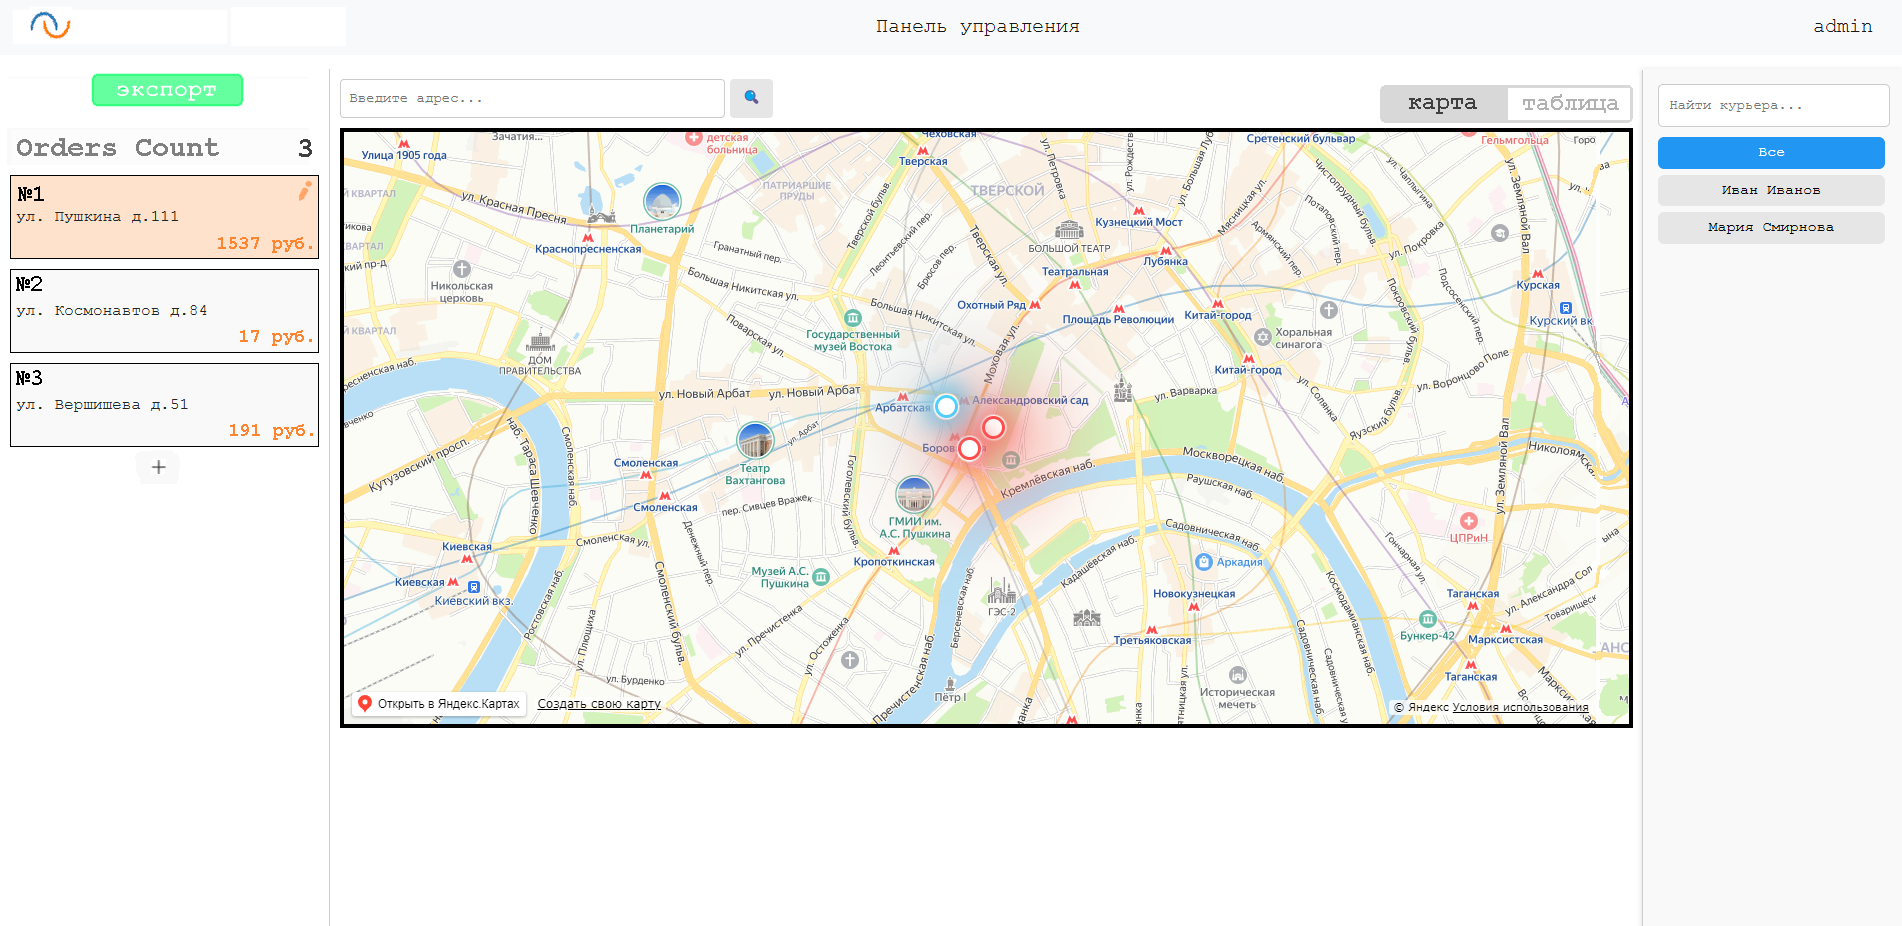
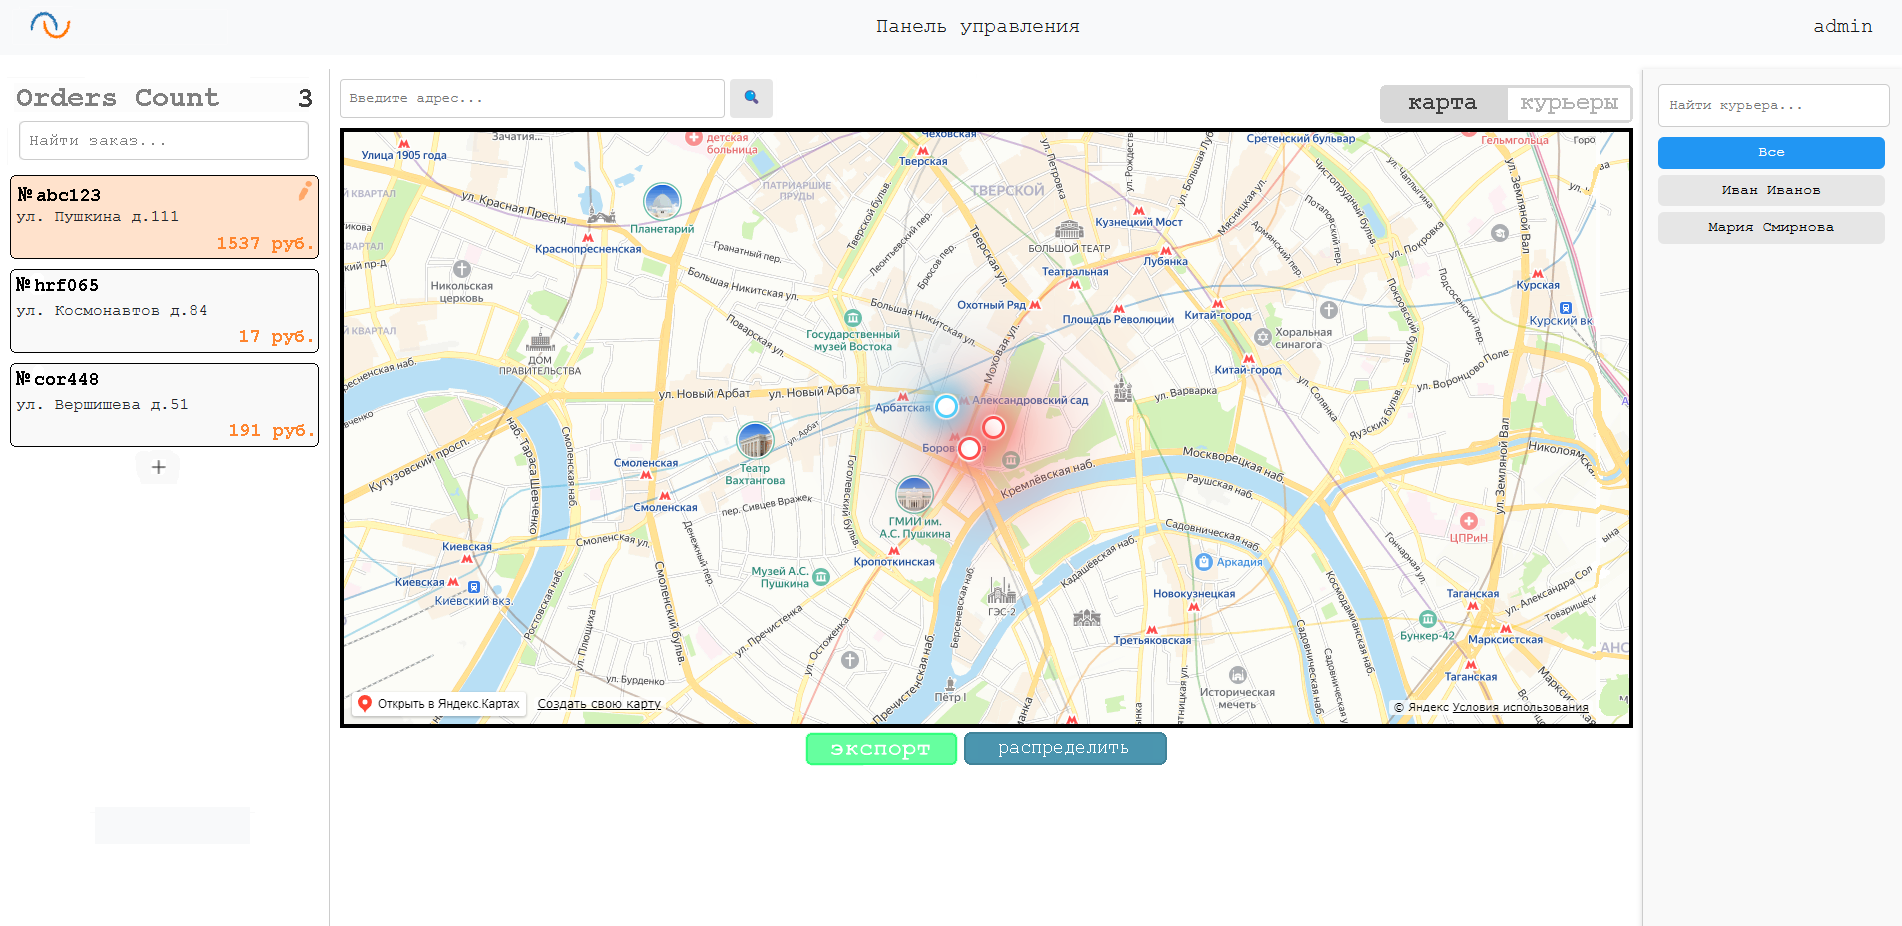
did layouts [3/4] + fixed some moments

diff --git a/static/script/script_2.js b/static/script/script_2.js
@@ -81,7 +81,7 @@ function init() {
       item.dataset.id = order.id;
       item.dataset.courier = courierId;
       item.innerHTML = `
-  <div style="font-weight: bold;">№${order.analytics_id}</div>
+  <div style="font-weight: bold;">№ ${order.analytics_id}</div>
   <div>${order.address}</div>
   <div style="color: orangered; font-weight: 700; text-align: right;">${order.price}</div>
 `;

diff --git a/static/css/style.css b/static/css/style.css
@@ -30,7 +30,7 @@ body {
   user-select: none;
   width: 100%;
   line-height: 1.2;
-  border: none; /* Убираем обводку */
+  border: none;
 }
 
 .order-item:hover {

diff --git a/api/users_api.py b/api/users_api.py
@@ -73,18 +73,16 @@ class UsersListResource(Resource):
         abort(404, message=f"You're not logged in")
 
     def post(self):
-        if current_user.is_authenticated:
-            if current_user.status == 'admin':
-                args = user_parser.parse_args()
-                session = create_session()
-                user = User(name=args['name'], email=args['email'], status=args['status'])
-                user.set_password(args['password'])
-                session.add(user)
-                session.commit()
-                session.close()
-                return jsonify({'success': 'created!'})
-            abort(404, message=f"You're not admin")
-        abort(404, message=f"You're not logged in")
+        if not current_user.is_authenticated or current_user.status == 'admin':
+            args = user_parser.parse_args()
+            session = create_session()
+            user = User(name=args['name'], email=args['email'], status=args['status'])
+            user.set_password(args['password'])
+            session.add(user)
+            session.commit()
+            session.close()
+            return jsonify({'success': 'created!'})
+        abort(404, message=f"You have already created an account")
 
 
 def abort_if_user_not_found(user_id):
